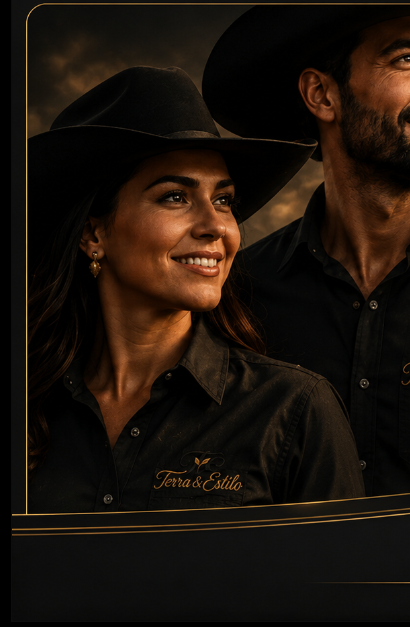
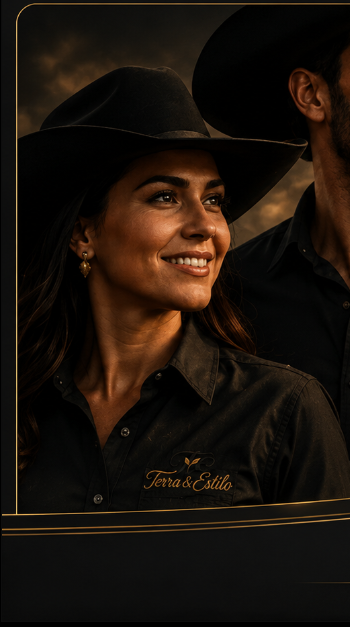
,

diff --git a/src/home.css b/src/home.css
@@ -2274,10 +2274,11 @@ body.nav-drawer-open {
   max-height: none;
   margin: 0;
   object-fit: cover;
-  /* Cast-only crop of raiz-hero — faces/hats, no baked logo or ivory UI */
-  object-position: 58% 26%;
+  /* Cast-only asset — bias to faces/hats; keep baked seal off the seam */
+  object-position: 42% 24%;
   filter: brightness(1.04) contrast(1.03) saturate(0.96);
-  transform: none;
+  transform: scale(1.12);
+  transform-origin: 28% 30%;
   -webkit-mask-image: none;
   mask-image: none;
   mix-blend-mode: normal;
@@ -2534,8 +2535,9 @@ body.nav-drawer-open {
     height: 100%;
     max-height: none;
     object-fit: cover;
-    object-position: 55% 24%;
-    transform: none;
+    object-position: 40% 22%;
+    transform: scale(1.1);
+    transform-origin: 30% 28%;
     filter: brightness(1.04) contrast(1.03) saturate(0.96);
     -webkit-mask-image: none;
     mask-image: none;
